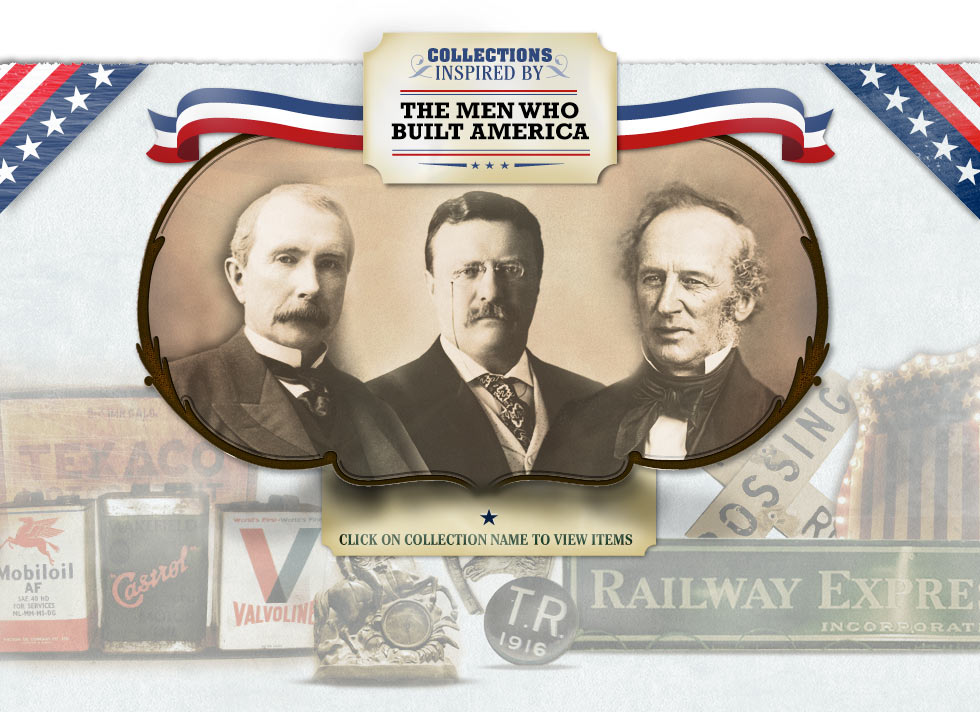
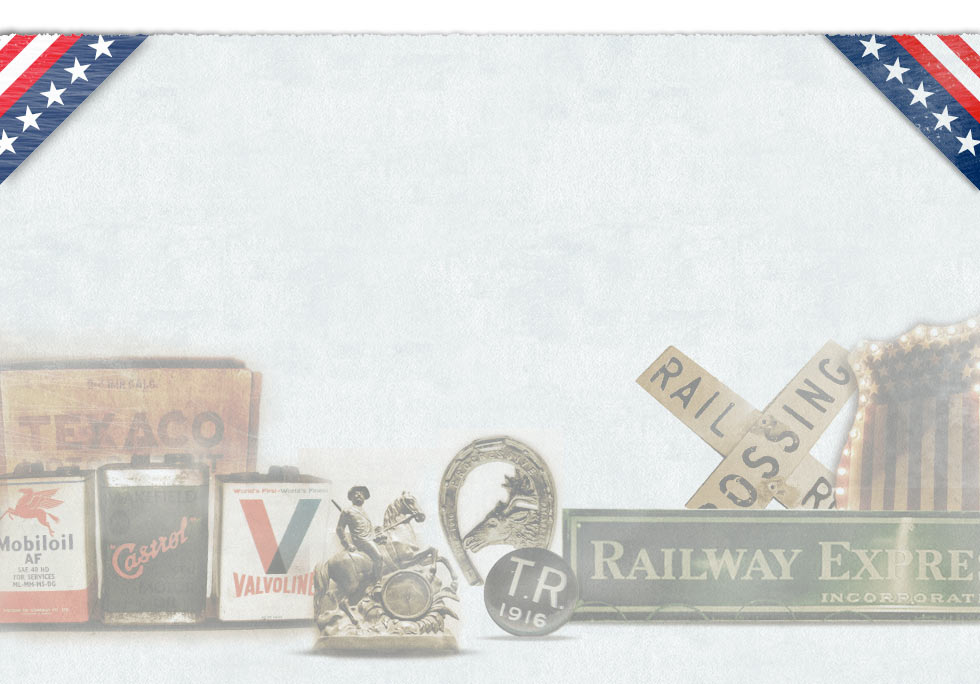
Implemented html/css for the MWBA landing page

diff --git a/web/less/frontend/modules/aetn.less b/web/less/frontend/modules/aetn.less
@@ -18,21 +18,30 @@
 
 .mwba-wrapper {
   position: relative;
-  .size(712px, 980px);
-  background: url("@{baseUrl}/misc/mwba-landing-page-bg.jpg") no-repeat top center;
+  .size(702px, 980px);
+  margin-top: 10px;
+  background: url("@{baseUrl}/misc/mwba-landing-page-bg.jpg") no-repeat 0 18px;
 
+  .top-banner {
+    position: absolute;
+    z-index: 2;
+    margin-left: 137px;
+  }
   .labels-ribbons {
     position: absolute;
-    top: 424px;
-    left: 187px;
-    .size(126px, 624px);
-
+    top: 396px;
+    left: 182px;
+    .size(150px, 624px);
+  }
+  .center-graphic {
+    padding-top: 68px;
+    padding-left: 130px;
   }
   .banner {
     position: absolute;
-    top: 585px;
-    left: 320px;
     display: block;
+    bottom: 54px;
+    left: 320px;
   }
 }
 
@@ -42,15 +51,10 @@
   background: url("@{baseUrl}/misc/mwba-sprites.png") no-repeat;
 }
 
-.vanderbilt_button {
-  .size(126px, 210px);
-  background-position: -425px 0;
-  &:hover {
-    background-position: -425px -130px;
-  }
-}
-
 .rockefeller_button {
+  position: relative;
+  top: 10px;
+  left: 2px;
   .size(126px, 211px);
   background-position: 0 0;
   &:hover {
@@ -65,5 +69,18 @@
     background-position: -219px -130px;
   }
 }
+.vanderbilt_button {
+  position: relative;
+  top: 12px;
+  right: 2px;
+  .size(126px, 210px);
+  background-position: -425px 0;
+  &:hover {
+    background-position: -425px -130px;
+  }
+}
+
+
+
 
 

diff --git a/apps/frontend/modules/aetn/templates/mwbaSuccess.php b/apps/frontend/modules/aetn/templates/mwbaSuccess.php
@@ -1,17 +1,23 @@
 <div class="mwba-wrapper">
+  <div class="top-banner">
+    <?= image_tag('frontend/misc/mwba-top-banner.png', array('alt' => 'The Men Who Built America'));  ?>
+  </div>
   <div class="labels-ribbons">
-      <a href="/history/mwba/john-d-rockefeller" class="rockefeller_button"></a>
-      <a href="/history/mwba/theodore-roosevelt" class="roosevelt_button"></a>
-      <a href="/history/mwba/cornelius-vanderbilt#" class="vanderbilt_button"></a>
+      <a href="<?= url_for('@aetn_mwba_petroliana', true); ?>" class="rockefeller_button"></a>
+      <a href="<?= url_for('@aetn_mwba_rooseveltiana', true); ?>" class="roosevelt_button"></a>
+      <a href="<?= url_for('@aetn_mwba_railroadiana', true); ?>" class="vanderbilt_button"></a>
   </div>
 
-    <span class="banner">
-        <a href="#" title="The Men Who Built America">
-            <img src="../images/headlines/history-banner-mwba-landing-page.jpg" alt="The Men Who Built America">
-        </a>
-    </span>
+  <div class="center-graphic">
+    <?= image_tag('frontend/misc/mwba-center-graphic.png'); ?>
+  </div>
+
+  <div class="banner">
+    <?php
+      echo link_to(cq_image_tag(
+        'headlines/history-banner-mwba-landing-page.jpg',
+        array('alt_title' => 'The Men Who Built America')
+      ), 'http://www.history.com/shows/men-who-built-america', array('target' => '_blank'));
+    ?>
+  </div>
 </div>
-
-
-
-
